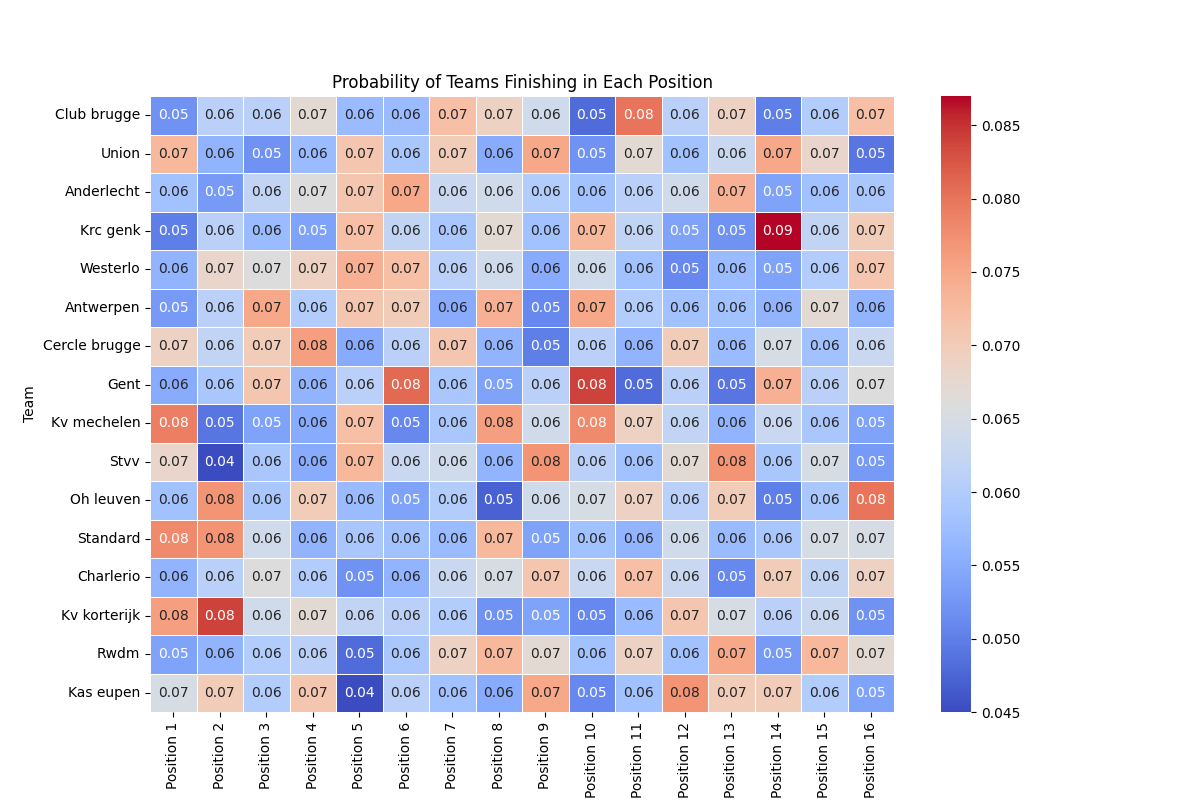
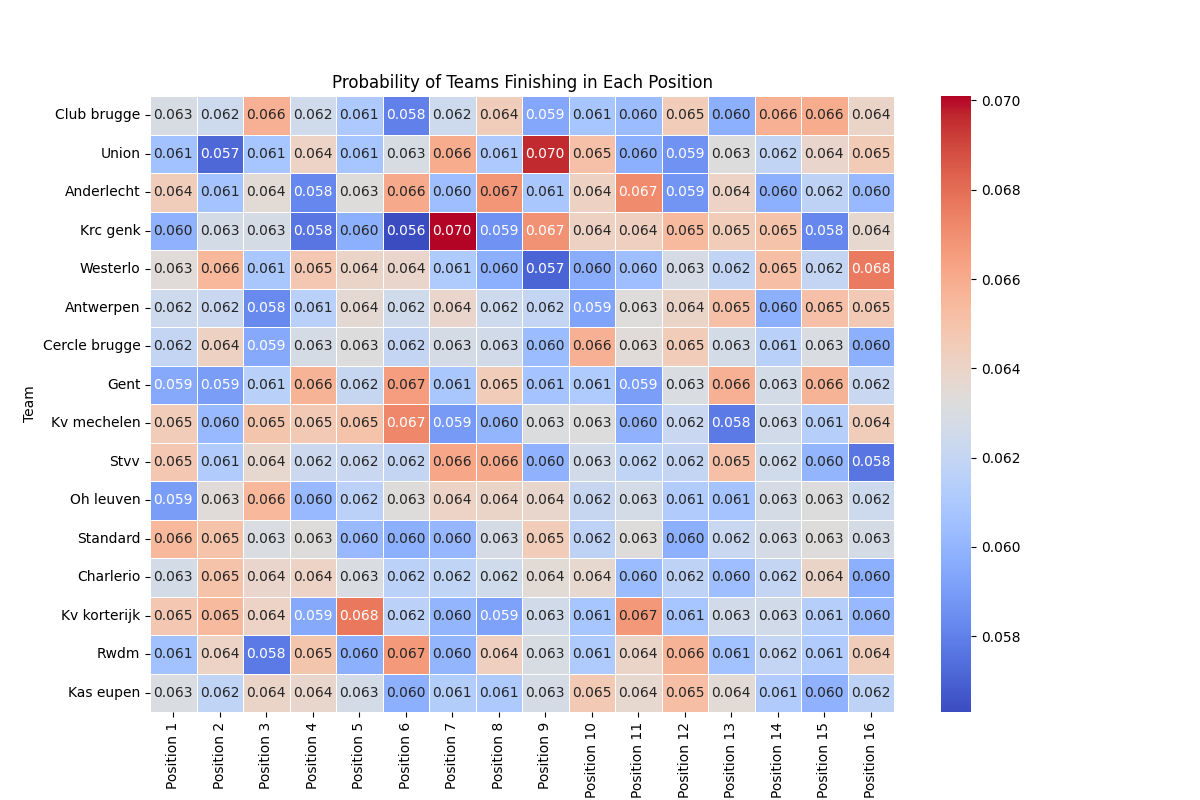
chore: add multiprocessing

diff --git a/simulate.py b/simulate.py
@@ -1,6 +1,7 @@
 from predict import predict_game, predict_league
 from models.game import FootballGame
 from models.formats import League
+import multiprocessing
 
 
 def simulate_game(game: FootballGame, n):
@@ -22,20 +23,50 @@ def simulate_game(game: FootballGame, n):
     return {"home_win": home_win_chance, "draw": draw_chance, "away_win": away_win_chance}
 
 
-def simulate_league(league: League, n):
-    position_counts = {team.name: [0 for _ in range(len(league.teams))] for team in league.teams}
+def simulate_once(league_data):
+    standings = predict_league(league_data).get_standings()
+    return [team for team, _ in standings]
+
+
+def worker_simulation(league_data, n):
+    num_teams = len(league_data.teams)
+    position_counts = {team.name: [0] * num_teams for team in league_data.teams}
 
     for _ in range(n):
-        standings = predict_league(league).get_standings()
-        for i in range(len(standings)):
-            team = standings[i][0]
+        standings = simulate_once(league_data)
+        for i, team in enumerate(standings):
             position_counts[team][i] += 1
 
-    for e in position_counts.keys():
-        old = position_counts[e]
-        new = []
-        for ell in old:
-            new.append(ell / n)
-        position_counts[e] = new
-
     return position_counts
+
+
+def combine_results(results, num_teams):
+    combined_counts = {team: [0] * num_teams for team in results[0]}
+
+    for result in results:
+        for team, counts in result.items():
+            for i, count in enumerate(counts):
+                combined_counts[team][i] += count
+
+    return combined_counts
+
+
+def simulate_league(league: League, n: int, num_workers: int = None):
+    num_teams = len(league.teams)
+
+    if num_workers is None:
+        num_workers = multiprocessing.cpu_count()
+
+    simulations_per_worker = n // num_workers
+    remaining_simulations = n % num_workers
+    tasks = [simulations_per_worker + (1 if i < remaining_simulations else 0) for i in range(num_workers)]
+
+    with multiprocessing.Pool(num_workers) as pool:
+        results = pool.starmap(worker_simulation, [(league, task) for task in tasks])
+
+    combined_counts = combine_results(results, num_teams)
+
+    for team in combined_counts:
+        combined_counts[team] = [count / n for count in combined_counts[team]]
+
+    return combined_counts

diff --git a/main.py b/main.py
@@ -1,9 +1,10 @@
 from models.formats import League
 from simulate import simulate_game, simulate_league
 from visualize import visualize_position_chances
+import time
 
 save_location = "results/league_probabilities.png"
-amount_of_simulations = 100_000
+amount_of_simulations = 10_000
 
 JPL = League(
     [
@@ -31,10 +32,15 @@ JPL = League(
 #     print(matchday)
 
 # print(simulate_game(JPL.matchdays[0][0], 10))
-data = simulate_league(JPL, amount_of_simulations)
-print(data)
 
-visualize_position_chances(data, save_location, JPL)
+if __name__ == '__main__':
+    start_time = time.time()
+    data = simulate_league(JPL, amount_of_simulations)
+    end_time = time.time()
+
+    print(f"Multiprocessing simulation time: {end_time - start_time} seconds")
+    print(data)
+    visualize_position_chances(data, save_location, JPL)
 
 
 # print(predict_league(JPL))

diff --git a/visualize.py b/visualize.py
@@ -9,7 +9,7 @@ def visualize_position_chances(data, save_location, League):
 
     # Create a heatmap
     plt.figure(figsize=(12, 8))
-    sns.heatmap(df.T, annot=True, cmap='coolwarm', fmt=".2f", linewidths=.5)
+    sns.heatmap(df.T, annot=True, cmap='coolwarm', fmt=".3f", linewidths=.5)
     plt.title("Probability of Teams Finishing in Each Position")
     plt.xlabel("Position")
     plt.ylabel("Team")

diff --git a/predict.py b/predict.py
@@ -34,6 +34,7 @@ def predict_game(game: FootballGame, silent: bool = True):
         return game
         # return random.choice([game.home, game.away, "draw"])
 
+
 def predict_league(inp_league: League, silent: bool = True):
     league = inp_league.copy()
     playday = 1
